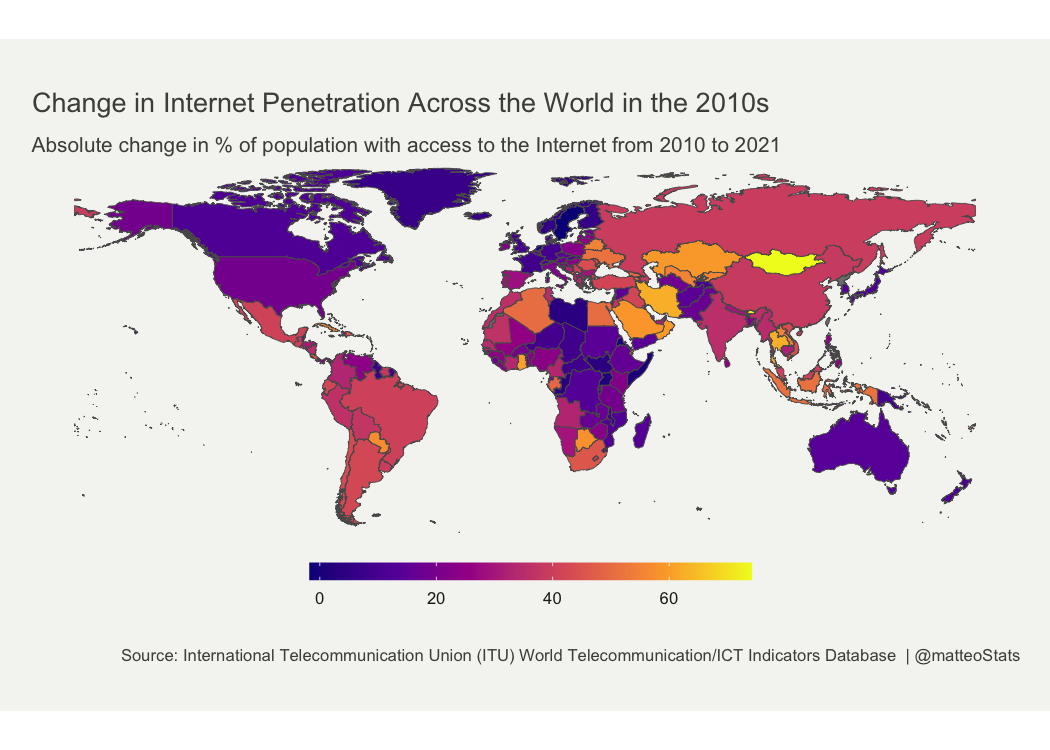
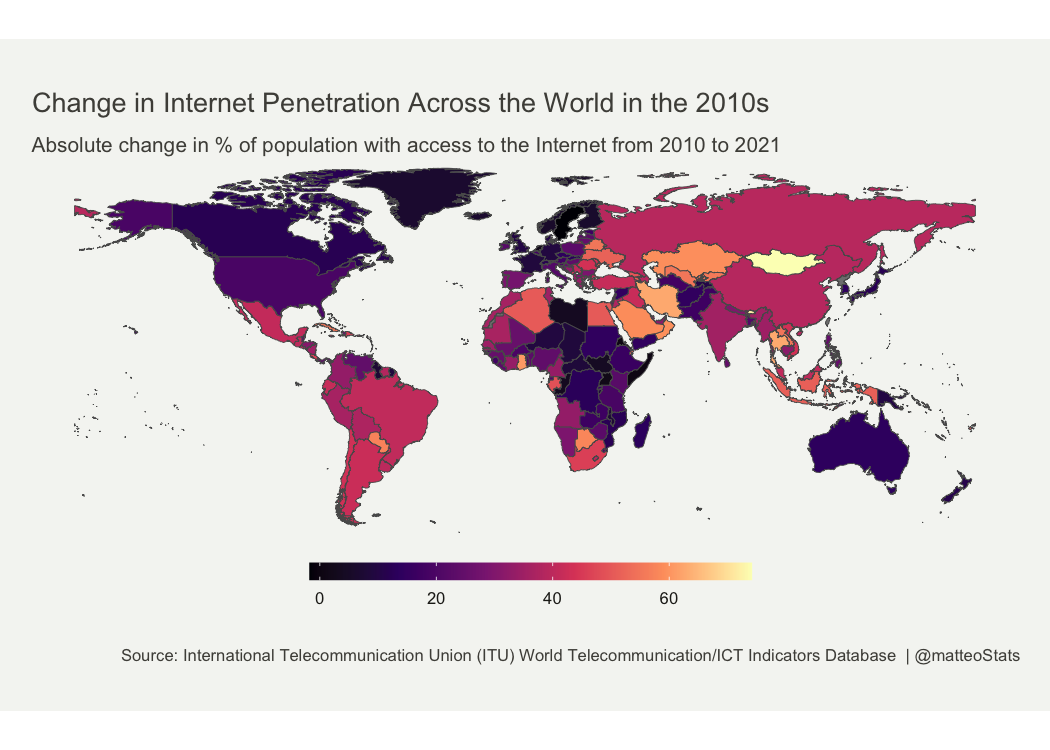
finished report

diff --git a/Cloropleth Maps/README.md b/Cloropleth Maps/README.md
@@ -104,7 +104,7 @@ it_users_map <- ggplot(users_world_df, aes(fill = diff_users_abs)) +
         legend.key.height= unit(0.3, 'cm'),
         legend.key.width= unit(1.5, 'cm'))+
   
-  scale_fill_viridis_c(option = "plasma")+
+  scale_fill_viridis_c(option = "magma")+
   labs(title = "Change in Internet Penetration Across the World in the 2010s",
        subtitle = "Absolute change in % of population with access to the Internet from 2010 to 2021",
     fill = NULL,
@@ -177,7 +177,7 @@ of the EU and the UK for the purpose of the socio-economic analyses of
 the regions. We will be using data on the NUTS 2 level, which is the
 statistical unit of approximately 800,000 to 3 million people.
 
-For the spatial data, we will use the [giscoR
+For the spatial data, I used the [giscoR
 package](https://cran.r-project.org/web/packages/giscoR/vignettes/giscoR.html).
 This package provides an easy interaction with the GISCO API, which
 gives access to a database containing core geographical data covering
@@ -369,10 +369,9 @@ tourism_eu_map
 
 ![](maps_files/figure-commonmark/unnamed-chunk-8-1.png)
 
-While the default “fill” in the first map worked fine, here, we notice
-that most observations are on the lower end of the spectrum. With only a
-few regions distinguisly higher than the rest. This map would benefit
-from having a legend split into breaks
+We notice that most observations are on the lower end of the spectrum.
+With only a few regions distinguisly higher than the rest. This map
+would benefit from having a legend split into breaks
 
 ## Alternative Maps
 
@@ -381,11 +380,11 @@ from having a legend split into breaks
 The map of Europe shown above used an unclassed gradient scale. I will
 now make a map using a classed colour scheme.
 
-First, legend breaks need to be determined and created. I will use the
+First, legend breaks need to be determined and created. I used the
 [classInt](https://cran.r-project.org/web/packages/classInt/classInt.pdf)
 package to help with this task. I chose to create 6 intervals, allowing
-to giving enough information, while avoiding to overcrowd the legend.
-The method used is the [Jenks natural breaks classification
+to give enough information, while avoiding to overcrowd the legend. The
+method used is the [Jenks natural breaks classification
 method](https://en.wikipedia.org/wiki/Jenks_natural_breaks_optimization).
 It is a convenient method that minimizes the variance within classes,
 while maximizing variance between classes.
@@ -483,9 +482,9 @@ the viewer can only make guesses.
 
 On the other hand, unclassed maps work best to show a general pattern,
 and give a nuance view of the data. An unclassed choropleth is the most
-exact representation of spatial data model possible, so if complexity is
-a goal in the mapping process, an unclassed maps is most likely the
-right choice. Unclassed maps make it easier to see outliers, the
+exact representation of spatial data model possible, so if precision is
+the main goal in the mapping process, an unclassed maps is most likely
+the right choice. Unclassed maps make it easier to see outliers, the
 abruptness of the transition between clusters, and differences between
 neighboring regions.
 
@@ -503,10 +502,10 @@ better insight and precision on the data, but can confuse inattentive or
 uninformed viewers.
 
 As a bonus, I will make a map that makes a specific point. From the maps
-above, we can see that some regions host a lot more tourists than the
-others, which have similar values. A classed map with two categories
-could be efficient to give a very simple answer to the question “Which
-regions host the most tourists?”.
+above, we can see that some regions host a lot more tourists than most
+others. A classed map with two categories could be efficient to give a
+very simple answer to the question “Which regions host the most
+tourists?”.
 
 <details>
 <summary>Code</summary>
@@ -594,7 +593,7 @@ article](https://blog.datawrapper.de/classed-vs-unclassed-color-scales/).
 
 I will remake the map of tourism in Europe with a diverging color scale.
 Using diverging colors is best if there is a meaningful middle value. In
-this case, I will use the median: 17,000,000.
+this case, I will use the median: 17,000,000 nights.
 
 <details>
 <summary>Code</summary>
@@ -661,9 +660,9 @@ go from low to high.
 In this map however, the distribution of data is such that using the a
 diverging scale is most likely not the right choice. As shown with the
 graph below, the data is very heavily positively skewed. Using a
-different midpoint, or transforming the data might improve the
-aesthetics and readability of the map, but would change the message
-transmitted by the map, or could even make it misleading.
+different midpoint or transforming the data might improve the aesthetics
+and readability of the map, but would change the message transmitted, or
+could even make it misleading.
 
 <details>
 <summary>Code</summary>
@@ -693,11 +692,11 @@ density_plot
 
 ![](maps_files/figure-commonmark/unnamed-chunk-13-1.png)
 
-The conclusion that I reached by observing the difference between the
-sequential and the diverging map of tourism in Europe is that if the
+The conclusion that I reached by observing the differences between the
+sequential and the diverging maps of tourism in Europe is that if the
 message emphasizes the lowest and highest values, a diverging scale can
 be a good choice; however, if the story is about the highest (darkest)
-values, then a sequential color scale is preferable.
+values, then a sequential color scale is most likely preferable.
 
 Here is an interesting [Datawrapper
 article](https://blog.datawrapper.de/diverging-vs-sequential-color-scales/)
